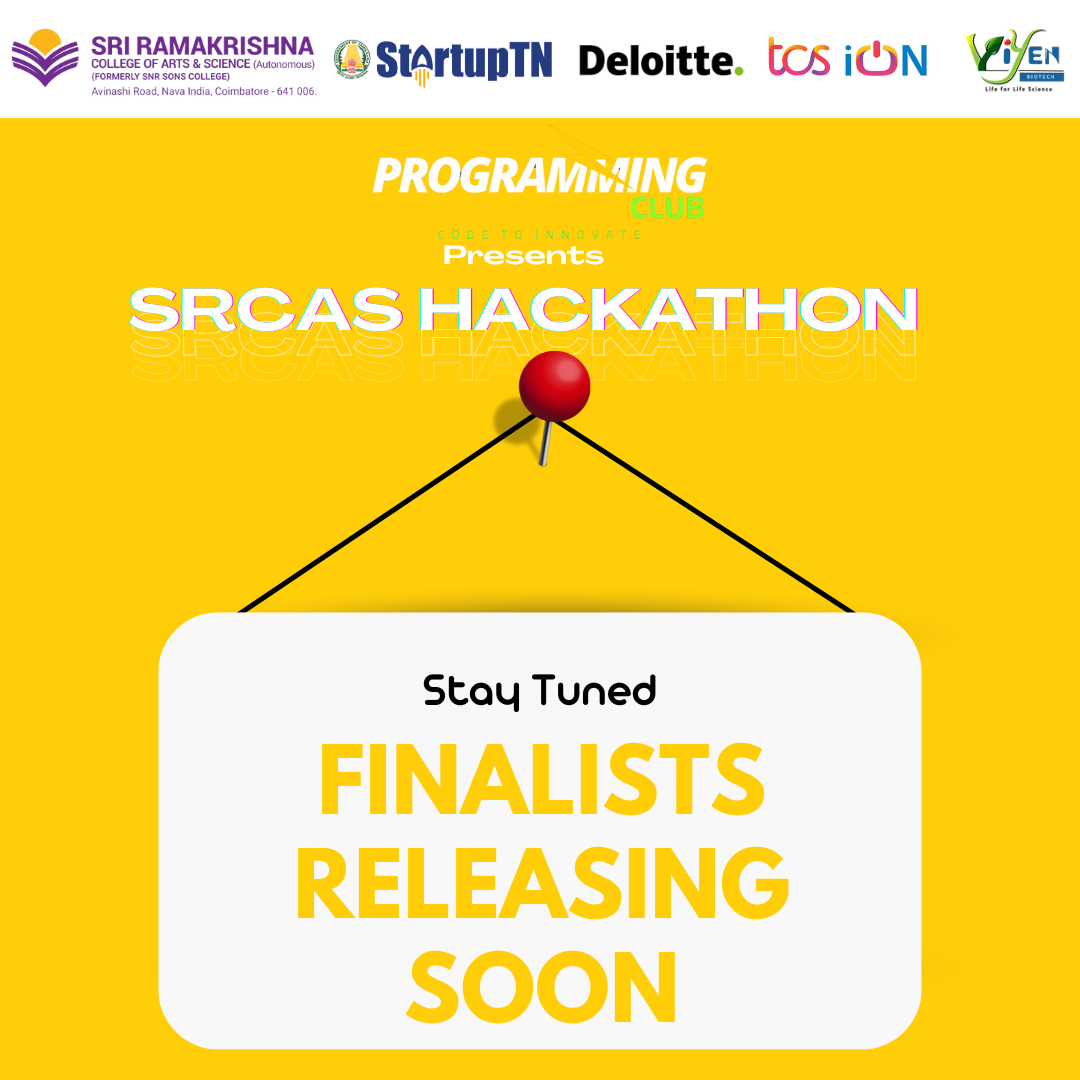
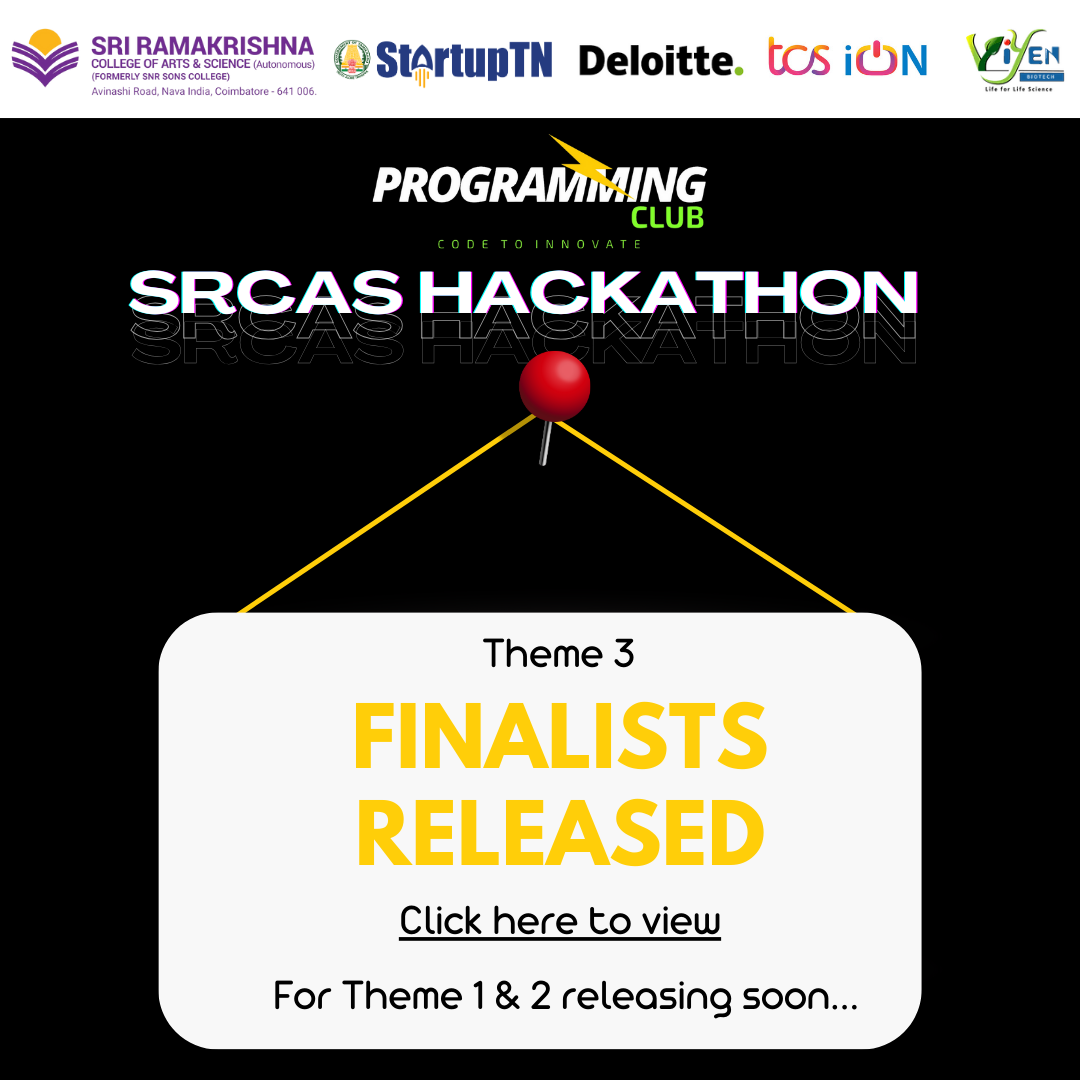
commit

diff --git a/app/final/page.jsx b/app/final/page.jsx
@@ -24,32 +24,76 @@ export default function Winners() {
   const winners = [
     {
       serial: 1,
-      theme: 'Education and Empowerment',
-      problemStatement: 'T1PS01',
-      teamName: 'qwerty',
-      teamID: 'T1PS01T01',
-      leaderName: 'Ram Kumar',
-      collegeName: 'abc College of Arts & Science',
+      theme: '03',
+      problemStatement: 'T3PS01',
+      teamName: 'Tech Titanz',
+      teamID: 'T3PS01T01',
+      leaderName: 'Keerthana P',
+      collegeName: 'Sri Eshwar College of Engineering'
     },
     {
       serial: 2,
-      theme: 'Sustainability',
-      problemStatement: 'Reduce Carbon Footprint',
-      teamName: 'Green Warriors',
-      teamID: 'TW001',
-      leaderName: 'John Doe',
-      collegeName: 'ABC University',
+      theme: '03',
+      problemStatement: 'T3PS01',
+      teamName: 'The Neural Ninjas',
+      teamID: 'T3PS01T07',
+      leaderName: 'Pratham Munjal',
+      collegeName: 'S.R.M Institute Of Science & Technology'
     },
     {
       serial: 3,
-      theme: 'Health and Wellness',
-      problemStatement: 'T2PS03',
-      teamName: 'Health Heroes',
-      teamID: 'T2PS03T02',
-      leaderName: 'Jane Smith',
-      collegeName: 'XYZ Institute of Technology',
+      theme: '03',
+      problemStatement: 'T3PS01',
+      teamName: 'Wind Driven Crew',
+      teamID: 'T3PS01T11',
+      leaderName: 'Arunoth Symen A',
+      collegeName: 'Christ (Deemed to be University)'
     },
-    // Add more fake details as needed
+    {
+      serial: 4,
+      theme: '03',
+      problemStatement: 'T3PS02',
+      teamName: 'AI Rebels',
+      teamID: 'T3PS02T06',
+      leaderName: 'Brinda M',
+      collegeName: 'Rathinam College of Arts and Science'
+    },
+    {
+      serial: 5,
+      theme: '03',
+      problemStatement: 'T3PS02',
+      teamName: 'THUNDERS',
+      teamID: 'T3PS02T15',
+      leaderName: 'Prakashraj M',
+      collegeName: 'Coimbatore Institute Of Technology'
+    },
+    {
+      serial: 6,
+      theme: '03',
+      problemStatement: 'T3PS03',
+      teamName: 'DevDynamos',
+      teamID: 'T3PS03T03',
+      leaderName: 'Aravindh Prabu',
+      collegeName: 'Sri Ramakrishna Engineering College'
+    },
+    {
+      serial: 7,
+      theme: '03',
+      problemStatement: 'T3PS03',
+      teamName: 'Tech Army',
+      teamID: 'T3PS03T07',
+      leaderName: 'Sanjai J',
+      collegeName: 'Sri Krishna College of Engineering and Technology'
+    },
+    {
+      serial: 8,
+      theme: '03',
+      problemStatement: 'T3PS03',
+      teamName: 'ECO LEDGENCE',
+      teamID: 'T3PS03T09',
+      leaderName: 'Karmuhilan DB',
+      collegeName: 'Rathinam College Of Arts And Science'
+    },
   ];
 
   return (
@@ -66,8 +110,12 @@ export default function Winners() {
             />
           </div>
         </div>
-        <div className="container mx-auto p-12 px-2">
-          <div className="overflow-x-auto rounded-md mx-20">
+        <div className="mt-8 text-center text-white">
+          <p className="text-lg md:text-xl lg:text-3xl">For Theme 1 & 2 results will be announced soon..</p>
+          <p className="text-lg md:text-xl lg:text-3xl">And all the selected teams will receive mail on 06.08.2024</p>
+        </div>
+        <div className="container mx-auto p-4 md:p-12">
+          <div className="overflow-x-auto rounded-md">
             <table className="min-w-full border border-yellow-500 bg-white">
               <thead>
                 <tr className="bg-yellow-800 text-white">
@@ -89,7 +137,7 @@ export default function Winners() {
                     <td className="py-2 px-4 border-b">{winner.teamName}</td>
                     <td className="py-2 px-4 border-b">{winner.teamID}</td>
                     <td className="py-2 px-4 border-b">{winner.leaderName}</td>
-                    <td className="py-2 px-4 border-b">{winner.collegeName}</td>
+                    <td className="py-6 px-12 border-b">{winner.collegeName}</td>
                   </tr>
                 ))}
               </tbody>

diff --git a/components/Navbar/index.jsx b/components/Navbar/index.jsx
@@ -9,7 +9,7 @@ import { AnimatePresence, motion } from "framer-motion";
 const navigationItems = [
   { label: "Home", href: "/" },
   { label: "Partners", href: "/partners" },
-//  { label: "Finalist", href: "/final"},
+  { label: "Finalists", href: "/final"},
   { label: "Humans", href: "/humans" },
   { label: "FAQs", href: "/faq" },
   { label: "Contact", href: "/contact" },

diff --git a/components/Footer/index.jsx b/components/Footer/index.jsx
@@ -16,7 +16,7 @@ const Footer = () => {
   const navigationItems = [
     { label: "Home", href: "/" },
     { label: "Partners", href: "/partners" },
- //   { label: "Finalist", href: "/final"},
+    { label: "Finalists", href: "/final"},
     { label: "Humans", href: "/humans" },
     { label: "FAQs", href: "/faq" },
     { label: "Contact Us", href: "/contact" },

diff --git a/components/PopUp/index.jsx b/components/PopUp/index.jsx
@@ -31,7 +31,7 @@ const PopupAd = () => {
             >
               ×
             </button>
-            <a href={linktoAd} target="_blank" rel="noopener noreferrer">
+            <a href={'/final'}  rel="noopener noreferrer">
               <Image
                 src={popupImg}
                 alt="Ad Content"
